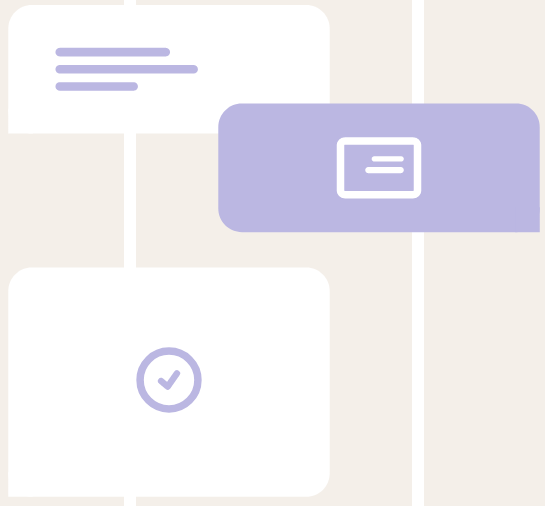
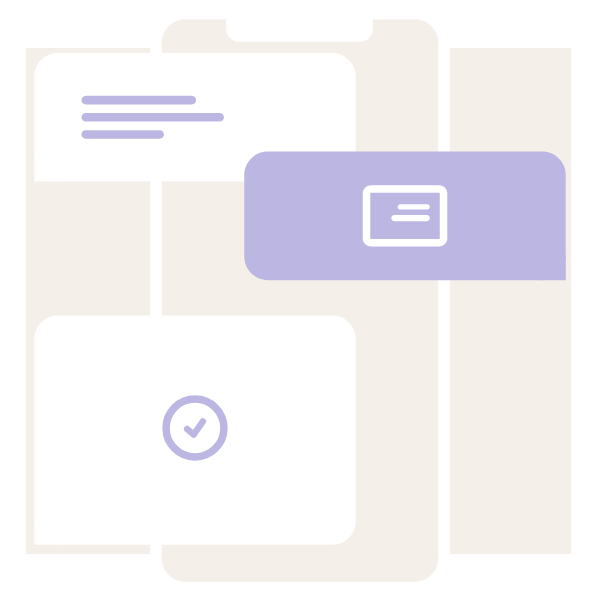
add full 3 part

Changed region(s): [[0.3743, 0.1779, 0.9982, 0.4743], [0.0936, 0.0889, 0.3743, 0.2372], [0.2495, 0.6522, 0.4055, 0.83]]

diff --git a/css/style.css b/css/style.css
@@ -338,6 +338,7 @@ header {
     height: 3480px;
     background: #F4EFE9;
     min-width: 1200px;
+    padding-top: 80px;
 }
 
 .option1{
@@ -346,35 +347,201 @@ header {
     max-width: 1200px;
     width: 100%;
     height: 600px;
-    border: orange solid 1px;
     justify-content: space-around;
     align-items: center;
     position: relative;
 }
 
-.option1:after{
-    width: 276px;
-    height: 574px;
-    position: absolute;
-    right: 161px;
-    top: 7.5px;
-    background-image: url("../images/backgroun_phone.png");
-    background-size: cover;
-    background-position: center;
-    content: "";
-    z-index: 1;
-}
 
 .option1 img{
-    z-index: 2;
+    width: 600px;
+    height: 600px;
 }
 
-.option1 article h2{
+.option1 article h4{
     color: #1E1928;
     font-family: 'Roboto', sans-serif;
     font-size: 32px;
     font-style: normal;
     font-weight: 700;
     line-height: 42px;
-    /*text-align: center;*/
+    text-align: right;
+    margin-bottom: 28px;
+
+}
+
+.option1 article p{
+    text-align: right;
+    color: rgba(30, 25, 40, 0.80);
+    text-align: right;
+    font-family: Inter, sans-serif;
+    font-size: 18px;
+    font-style: normal;
+    font-weight: 400;
+    line-height: 30px; /* 166.667% */
+    letter-spacing: 0.252px;
+}
+
+.option2 {
+    display: flex;
+    margin: auto;
+    max-width: 1200px;
+    width: 100%;
+    height: 600px;
+    justify-content: space-around;
+    align-items: center;
+    position: relative;
+}
+
+.option2 article h4{
+    color: #1E1928;
+    font-family: 'Roboto', sans-serif;
+    font-size: 32px;
+    font-style: normal;
+    font-weight: 700;
+    line-height: 42px;
+    text-align: left;
+    margin-bottom: 28px;
+
+}
+
+.option2 article p{
+    text-align: left;
+    color: rgba(30, 25, 40, 0.80);
+    text-align: left;
+    font-family: Inter, sans-serif;
+    font-size: 18px;
+    font-style: normal;
+    font-weight: 400;
+    line-height: 30px; /* 166.667% */
+    letter-spacing: 0.252px;
+}
+
+
+.option2 img{
+    width: 600px;
+    height: 600px;
+}
+
+.option3{
+    display: flex;
+    margin: auto;
+    max-width: 1200px;
+    width: 100%;
+    height: 600px;
+    justify-content: space-around;
+    align-items: center;
+    position: relative;
+}
+
+.option3 h4{
+    color: #1E1928;
+    text-align: right;
+    font-family: Roboto, sans-serif;
+    font-size: 32px;
+    font-style: normal;
+    font-weight: 700;
+    line-height: 42px;
+    margin-bottom: 28px;
+}
+
+.option3 p{
+    color: rgba(30, 25, 40, 0.80);
+    text-align: right;
+    font-family: Inter, sans-serif;
+    font-size: 18px;
+    font-style: normal;
+    font-weight: 400;
+    line-height: 30px; /* 166.667% */
+    letter-spacing: 0.252px;
+    padding-bottom: 24px;
+}
+
+.option3 img{
+    width: 600px;
+    height: 600px;
+}
+
+
+
+.option4 {
+    display: flex;
+    margin: auto;
+    max-width: 1200px;
+    width: 100%;
+    height: 600px;
+    justify-content: space-around;
+    align-items: center;
+    position: relative;
+}
+
+.option4 article h4{
+    color: #1E1928;
+    font-family: 'Roboto', sans-serif;
+    font-size: 32px;
+    font-style: normal;
+    font-weight: 700;
+    line-height: 42px;
+    text-align: left;
+    margin-bottom: 28px;
+
+}
+
+.option4 article p{
+    text-align: left;
+    color: rgba(30, 25, 40, 0.80);
+    text-align: left;
+    font-family: Inter, sans-serif;
+    font-size: 16px;
+    font-style: normal;
+    font-weight: 400;
+    line-height: 30px; /* 166.667% */
+    letter-spacing: 0.252px;
+}
+
+
+.option4 img{
+    width: 600px;
+    height: 600px;
+}
+
+
+
+.option5{
+    display: flex;
+    margin: auto;
+    max-width: 1200px;
+    width: 100%;
+    height: 600px;
+    justify-content: space-around;
+    align-items: center;
+    position: relative;
+}
+
+.option5 h4{
+    color: #1E1928;
+    text-align: right;
+    font-family: Roboto, sans-serif;
+    font-size: 32px;
+    font-style: normal;
+    font-weight: 700;
+    line-height: 42px;
+    margin-bottom: 28px;
+}
+
+.option5 p{
+    color: rgba(30, 25, 40, 0.80);
+    text-align: right;
+    font-family: Inter, sans-serif;
+    font-size: 18px;
+    font-style: normal;
+    font-weight: 400;
+    line-height: 30px; /* 166.667% */
+    letter-spacing: 0.252px;
+    padding-bottom: 24px;
+}
+
+.option5 img{
+    width: 600px;
+    height: 600px;
 }

diff --git a/index.html b/index.html
@@ -117,32 +117,42 @@
 
     </div>
     <div class="option2">
+        <img src="./images/standing.png" alt="standing">
         <article>
             <h4>Standing by to assist you.</h4>
-            <p>Chat with an expert who understands what you’re going through.
-                Our loss experts will provide you with the answers you need, or help you
-                find local professionals. They can even take some tasks off your hands and
+            <p>Chat with an expert who understands what you’re going through.<br>
+                Our loss experts will provide you with the answers you need, or help<br> you
+                find local professionals. They can even take some tasks off your<br> hands and
                 do them for you.</p>
 
         </article>
+
     </div>
     <div class="option3">
         <article>
             <h4>Easily track and collect benefits.</h4>
-            <p>Get simple and immediate guidance to all the benefits your family may be entitled to—including many you may not have known about. The app helps you locate, determine eligibility, and collect on these important sources of funding for the funeral and the estate.</p>
+            <p>Get simple and immediate guidance to all the benefits your family<br>
+                may be entitled to—including many you may not have known about.<br>
+                The app helps you locate, determine eligibility, and collect on these<br>
+                important sources of funding for the funeral and the estate.</p>
         </article>
+        <img src="./images/easily.png" alt="easily">
     </div>
     <div class="option4">
+        <img src="./images/paperwork.png" alt="paperwork">
         <article>
             <h4>Paperwork, figured out.</h4>
-            <p>The app helps you locate and safely store important papers, and guides you through handling them. Bills, debt, unused services, insurance policies, bank accounts, and more, to help you stay organized and in control.</p>
+            <p>The app helps you locate and safely store important papers, and guides you<br>
+                through handling them. Bills, debt, unused services, insurance policies, bank<br>
+                accounts, and more, to help you stay organized and in control.</p>
         </article>
     </div>
     <div class="option5">
         <article>
             <h4>Listen in. Understand grief.</h4>
-            <p>Grief is a fundamental human experience, and navigating it underlies every aspect of the Empathy app. Original audio chapters walk you through the tangled processes of grieving to help you observe, understand, and come to grips with what you're going through.</p>
+            <p>Grief is a fundamental human experience, and navigating it underlies<br> every aspect of the Empathy app. Original audio chapters walk you<br> through the tangled processes of grieving to help you observe,<br> understand, and come to grips with what you're going through.</p>
         </article>
+        <img src="./images/listen.png">
     </div>
 </section>
 </main>
